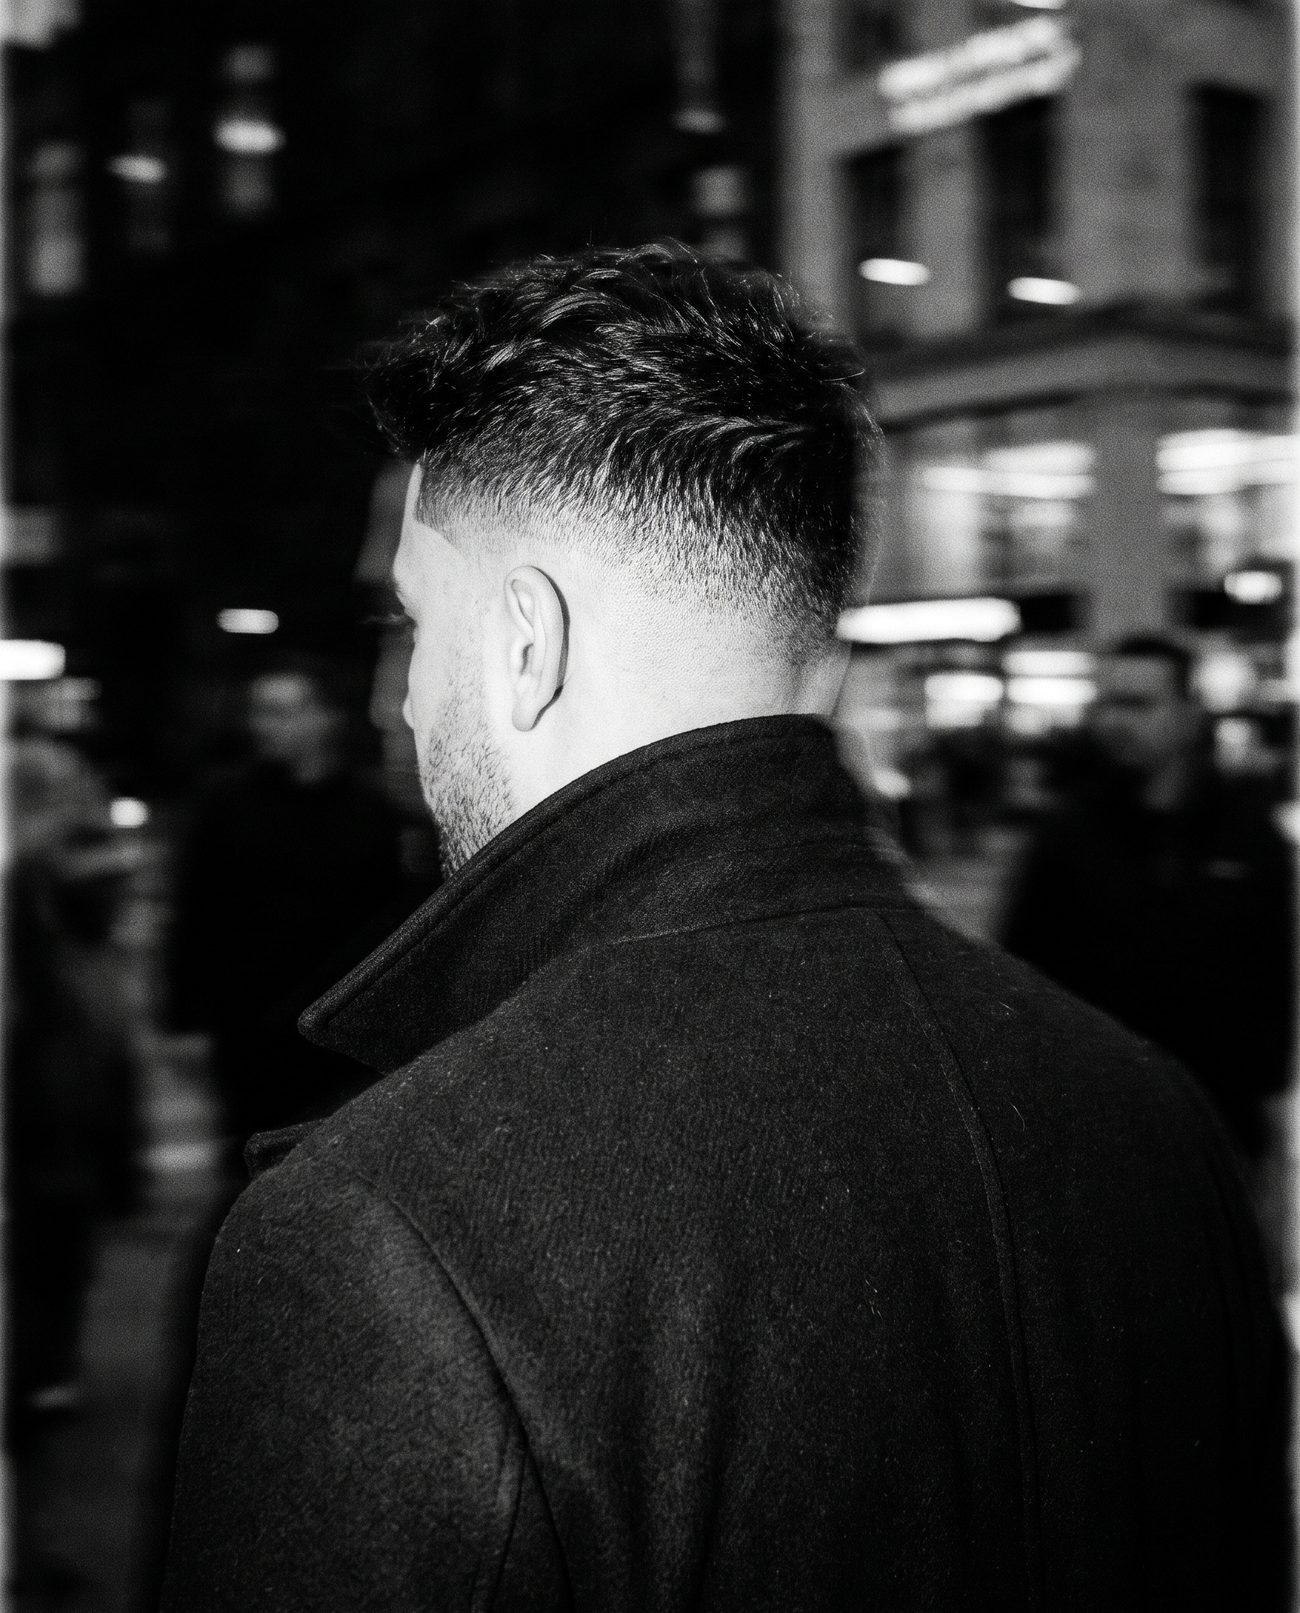
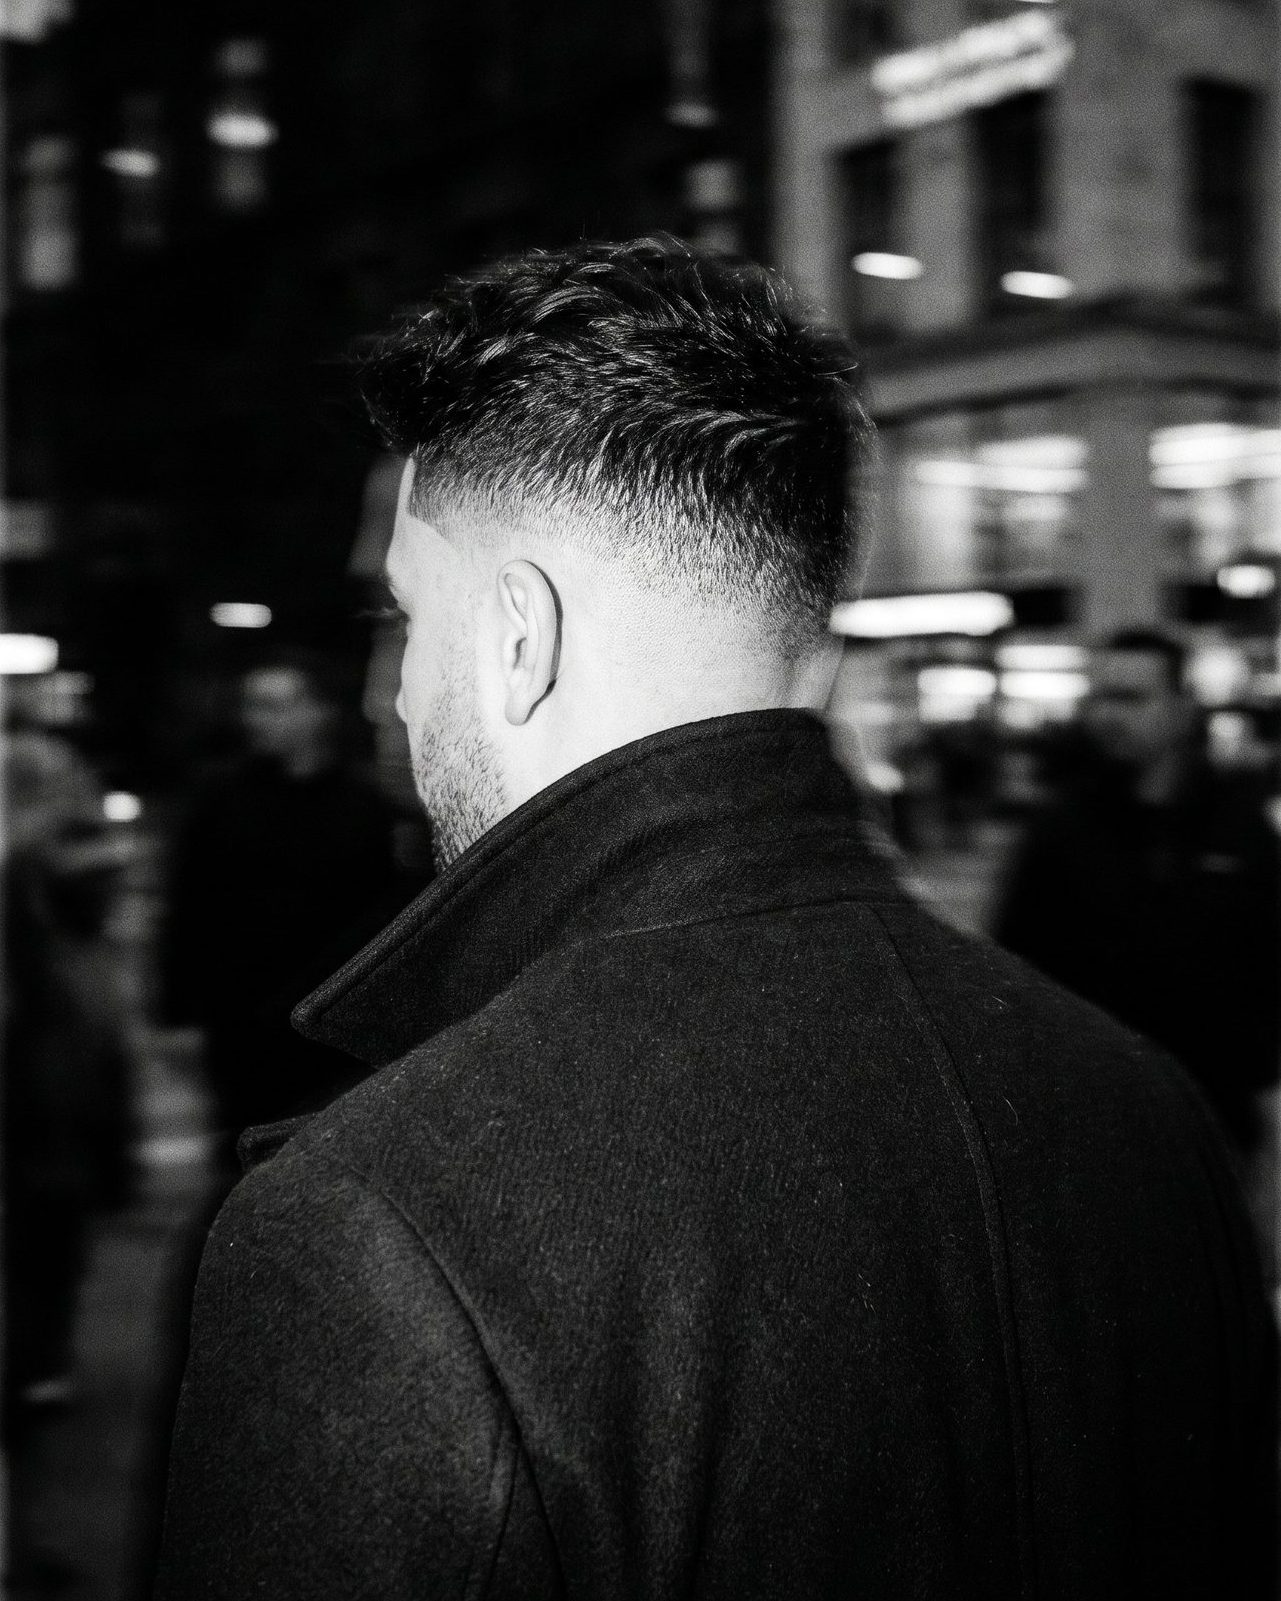
Vaporizador: nueva imagen conceptual (vaporizador real con vapor) y recorte de bordes blancos
- Tarjeta 03 del ritual con imagen nueva del vaporizador
- Recorte automático de los bordes blancos horneados en concept-vapor,
  concept-perfil y concept-nuca

diff --git a/servicios.html b/servicios.html
@@ -183,7 +183,7 @@
       </article>
       <article class="vcard">
         <span class="vcard-num">03</span>
-        <img src="/img/concept-vapor.jpg" alt="" aria-hidden="true" loading="lazy">
+        <img src="/img/concept-vaporizador.jpg" alt="" aria-hidden="true" loading="lazy">
         <div class="vcard-body"><h3>Vaporizador caliente</h3><p>El ritual de siempre, para cerrar con un acabado impecable.</p></div>
       </article>
     </div>
